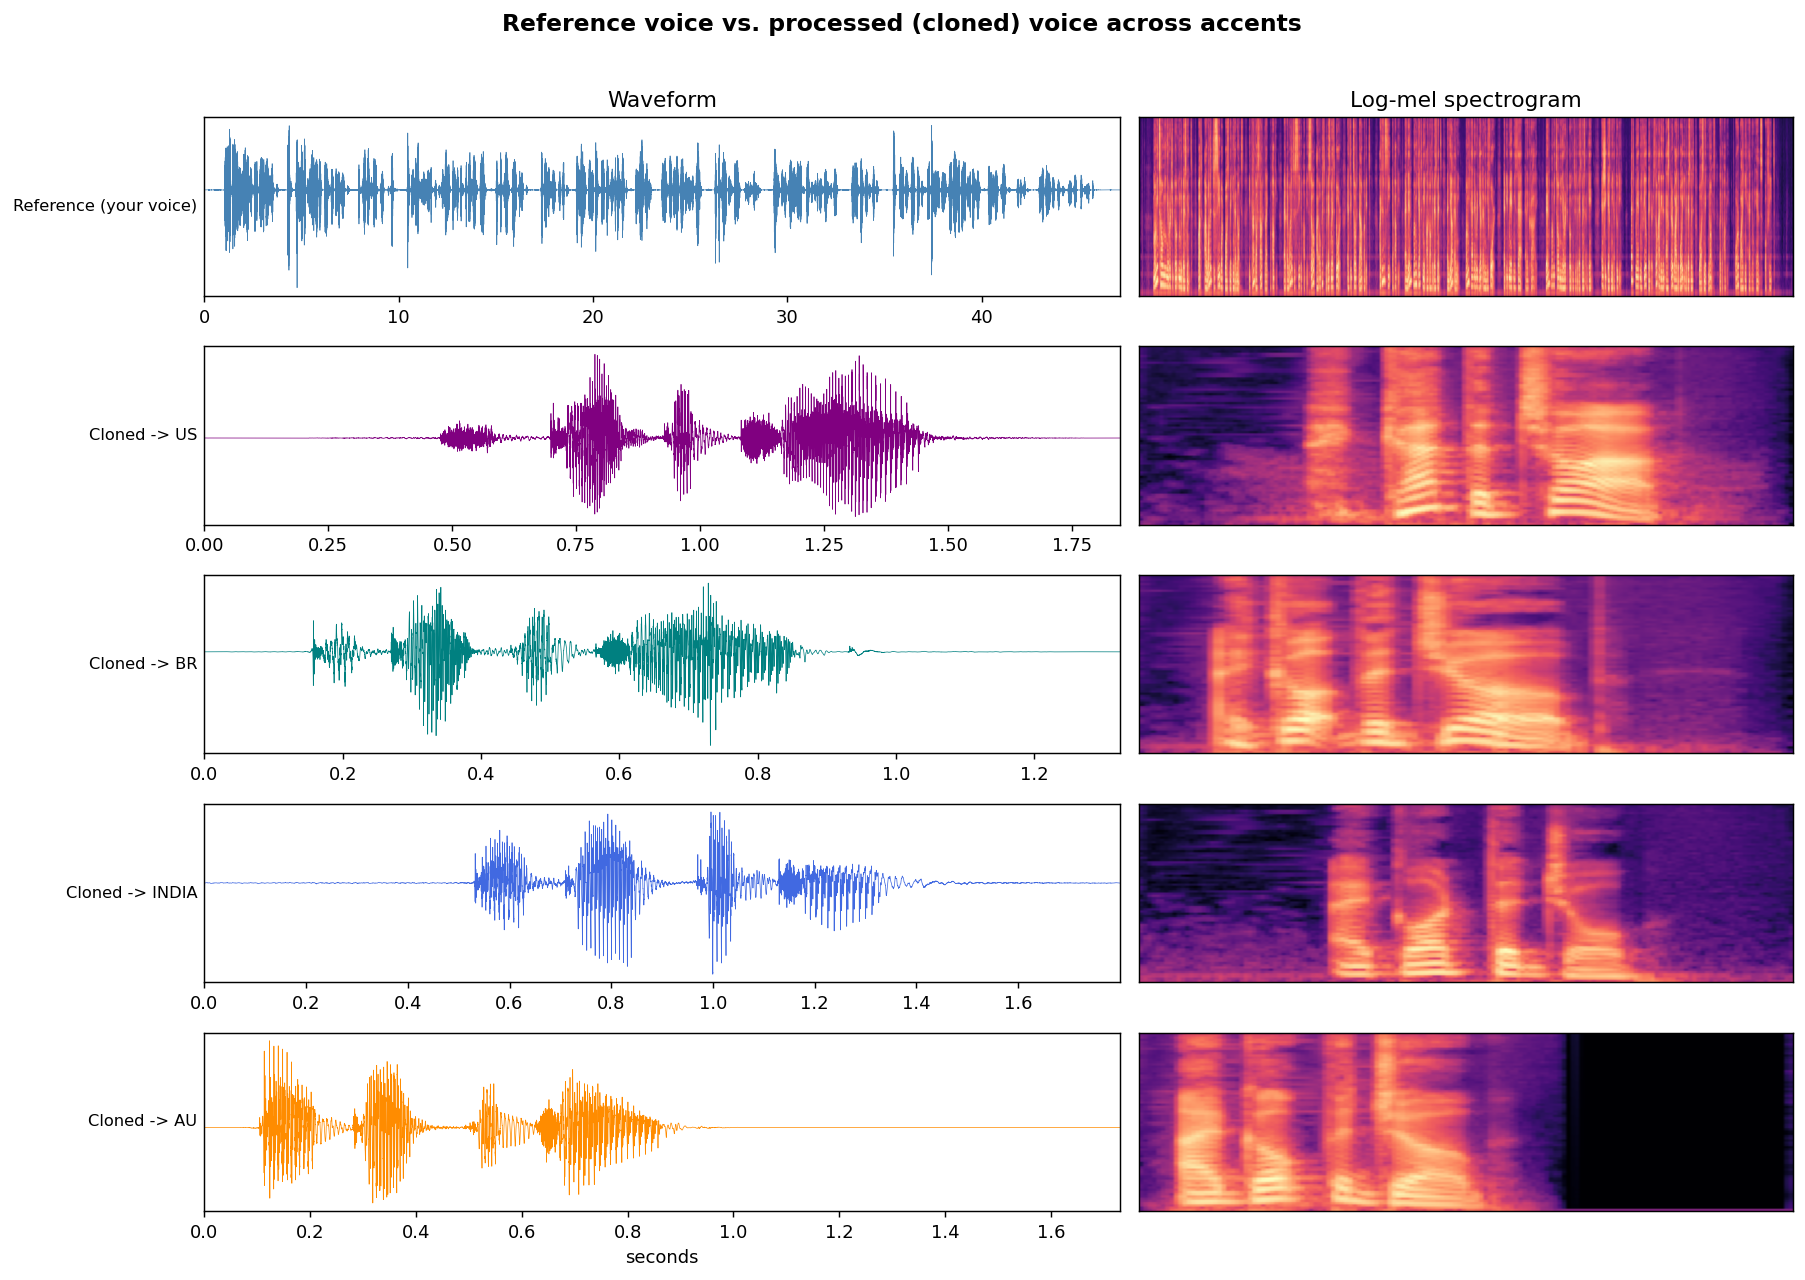
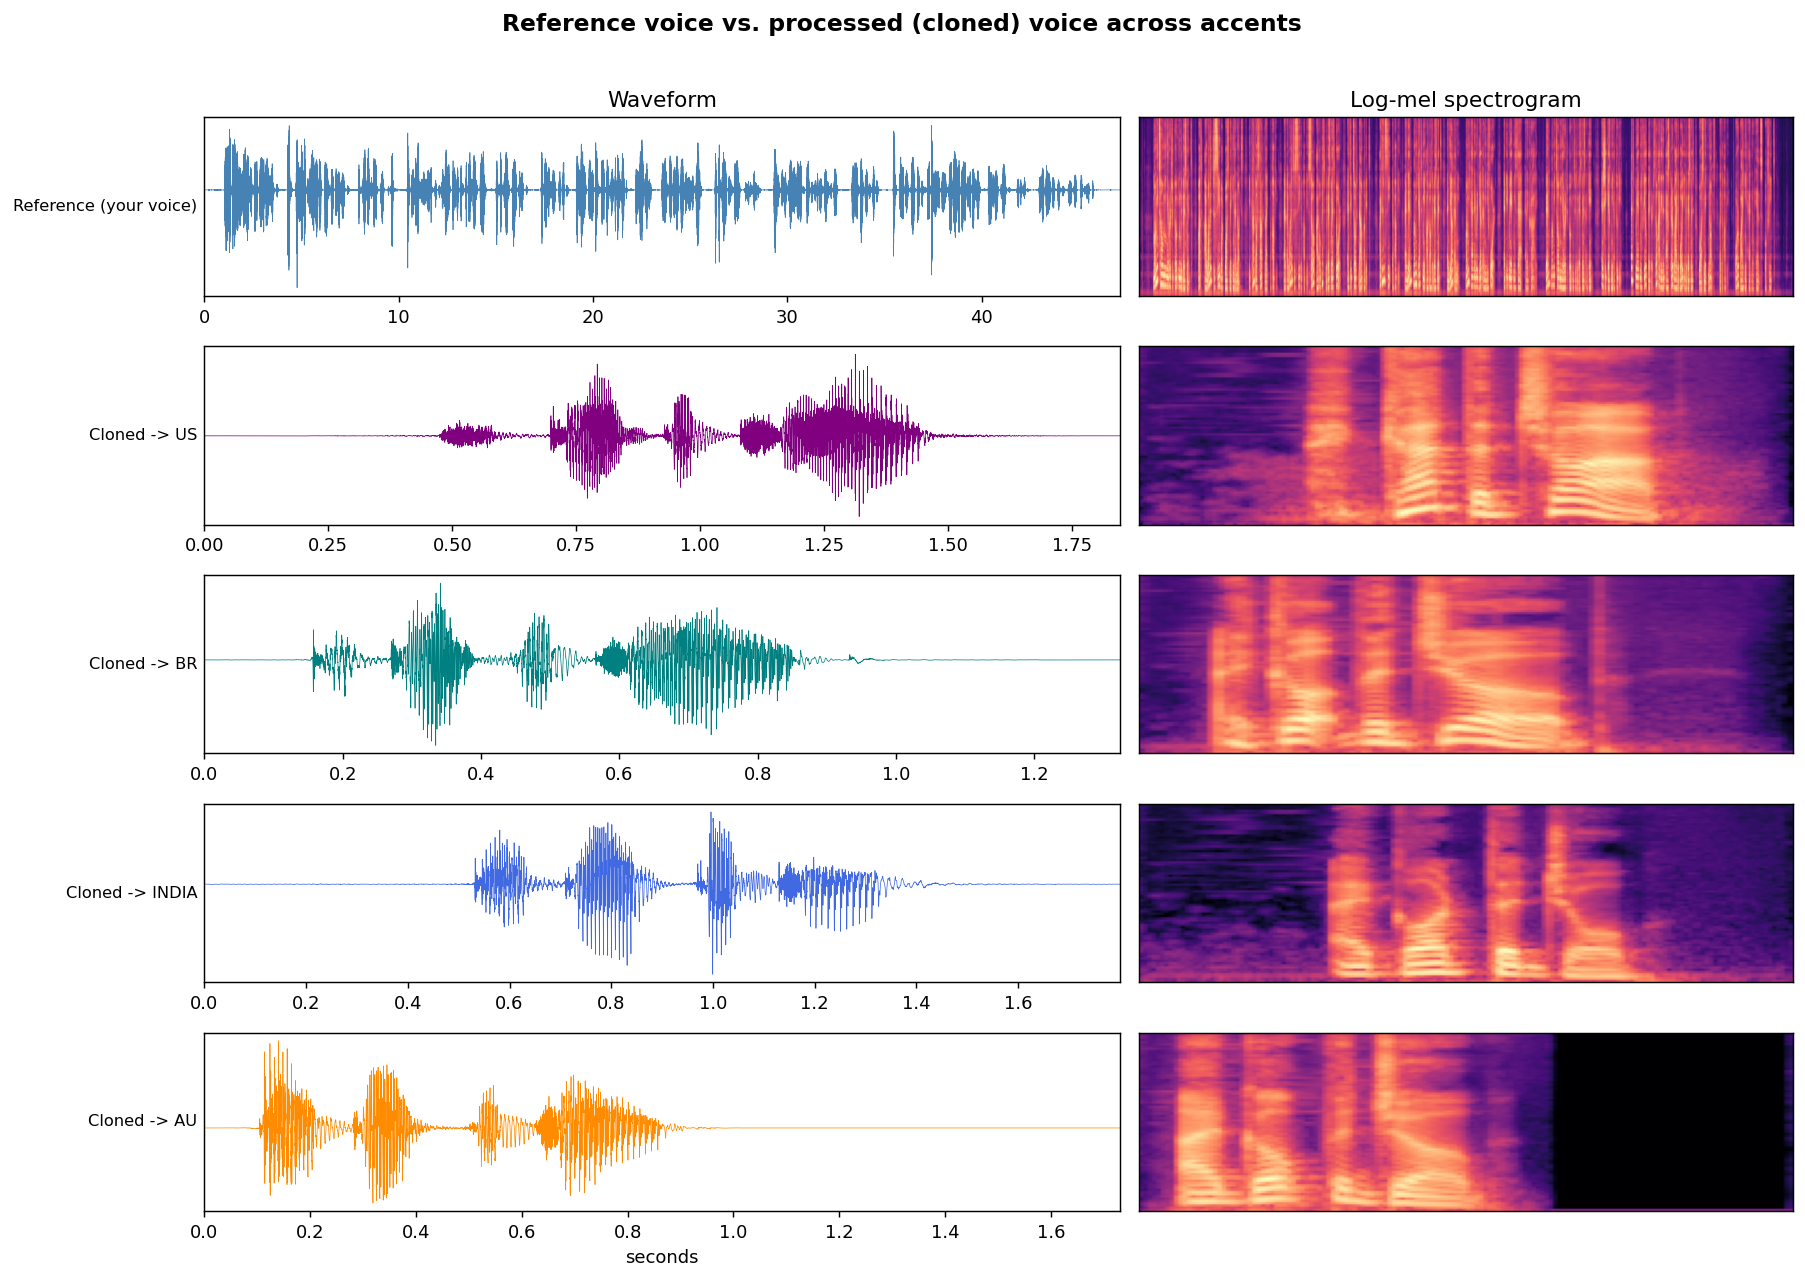
A6: Speech — st126235

diff --git a/src/a6_speech/voice_clone.py b/src/a6_speech/voice_clone.py
@@ -8,11 +8,17 @@ re-extracted from each generated clip.
 
 Runs in the single project env (.venv, py3.10, torch 2.8 cu128) — on the **GPU**.
 
-Design note: instead of OpenVoice's `se_extractor.get_se` (which pulls faster-whisper /
-whisper-timestamped / PyAV — none of which build cleanly on this Windows machine and are
-unnecessary for a clean reference clip), we extract the tone color directly with the
-converter's own `ToneColorConverter.extract_se`, splitting the reference into ~10 s chunks
-and averaging — exactly what get_se does internally, minus the VAD/ASR front-end.
+Tone-color extraction: we use OpenVoice's own `se_extractor.get_se` (the silero-VAD path,
+`vad=True`) — the exact function the assignment asks us to "re-run on the outputs". On Windows
+its front-end needs `faster-whisper` + `whisper-timestamped` + PyAV + an `ffmpeg` binary; we
+satisfy the binary with the wheel-shipped `imageio-ffmpeg` (no system install, no compiling).
+`get_se` segments a clip by rounding `duration / 10 s` to an integer number of splits, so it
+*requires the clip to be ≳5 s*. The reference recording (~47 s) is fine; short synthesized
+outputs (a single "I got the job!" is ~2 s) are **tiled to ~8 s** first — repeating audio does
+not change timbre, so the tone color is identical — so the *real* get_se still runs on every
+output. If `get_se` is ever unavailable we fall back to a lightweight chunk-and-average via
+`ToneColorConverter.extract_se` — the same math get_se uses internally, minus the VAD/ASR
+front-end — so the pipeline never hard-stops.
 """
 from __future__ import annotations
 
@@ -139,8 +145,87 @@ def _resolve_spk_id(spk2id, candidates):
 
 
 # ---------------------------------------------------------------------------
-# Tone color extraction (chunk-and-average; replaces se_extractor.get_se)
+# Tone color extraction — OpenVoice se_extractor.get_se (primary) with a
+# chunk-and-average fallback for short clips / missing optional deps.
 # ---------------------------------------------------------------------------
+_FFMPEG_READY = False
+
+
+def _setup_ffmpeg():
+    """Expose a wheel-shipped ffmpeg as a plain `ffmpeg(.exe)` on PATH (whisper shells out to
+    it by that name) and point pydub at it. Lets se_extractor.get_se run without a system
+    ffmpeg install. No-op if imageio-ffmpeg isn't present."""
+    global _FFMPEG_READY
+    if _FFMPEG_READY:
+        return True
+    try:
+        import shutil
+        import imageio_ffmpeg
+        from pydub import AudioSegment
+
+        src = imageio_ffmpeg.get_ffmpeg_exe()
+        try:
+            repo_root = Path(__file__).resolve().parents[2]  # src/a6_speech/voice_clone.py
+        except NameError:  # __file__ undefined when this source is run from a notebook cell
+            repo_root = Path.cwd()
+        bindir = repo_root / ".venv" / "ffmpeg_bin"
+        bindir.mkdir(parents=True, exist_ok=True)
+        exe = bindir / ("ffmpeg.exe" if os.name == "nt" else "ffmpeg")
+        if not exe.exists():
+            shutil.copy(src, exe)
+        os.environ["PATH"] = str(bindir) + os.pathsep + os.environ.get("PATH", "")
+        AudioSegment.converter = str(exe)
+        AudioSegment.ffmpeg = str(exe)
+        _FFMPEG_READY = True
+        return True
+    except Exception as e:  # imageio-ffmpeg not installed → caller falls back
+        print(f"  (ffmpeg setup skipped: {type(e).__name__}: {e})")
+        return False
+
+
+def _tile_to_min_duration(path, min_s=8.0):
+    """Repeat (tile) a clip until it is ≥ min_s seconds, written to a temp wav. Repeating audio
+    does not change its timbre, so the tone color is identical — it just gives OpenVoice's
+    se_extractor.get_se enough speech (it needs ≳5 s to form ≥1 VAD split) to run on a short
+    output like a single "I got the job!". Returns the original path if it is already long enough."""
+    import soundfile as sf
+    import librosa
+
+    y, sr = librosa.load(str(path), sr=None, mono=True)
+    if len(y) / sr >= min_s:
+        return str(path)
+    reps = int(np.ceil(min_s * sr / max(len(y), 1)))
+    y_tiled = np.tile(y, reps)
+    PROCESSED_DIR.mkdir(parents=True, exist_ok=True)
+    tmp = Path(tempfile.mkdtemp(prefix="tile_", dir=str(PROCESSED_DIR))) / (Path(path).stem + "_tiled.wav")
+    sf.write(str(tmp), y_tiled, sr)
+    return str(tmp)
+
+
+def get_se(path, converter, save_path=None):
+    """Extract a tone-color embedding using OpenVoice's real `se_extractor.get_se` (silero-VAD
+    path). Clips shorter than its ~5 s minimum (e.g. a single "I got the job!") are tiled to ~8 s
+    first — same timbre, just repeated — so the real get_se still runs on the output. Falls back
+    to a chunk-and-average extractor only if get_se is unavailable. Returns the SE tensor."""
+    if _setup_ffmpeg():
+        try:
+            import openvoice.se_extractor as se_extractor
+
+            src = _tile_to_min_duration(path, min_s=8.0)
+            tiled = src != str(path)
+            se, _name = se_extractor.get_se(
+                src, converter, target_dir=str(PROCESSED_DIR), vad=True)
+            if save_path is not None:
+                import torch
+                torch.save(se, str(save_path))
+            note = " (tiled to ≥8s)" if tiled else ""
+            print(f"  se_extractor.get_se ok ({Path(path).name}){note} -> {tuple(se.shape)}")
+            return se
+        except Exception as e:
+            print(f"  se_extractor.get_se fell back ({Path(path).name}): {type(e).__name__}: {e}")
+    return _extract_se_from_path(path, converter, save_path=save_path)
+
+
 def _extract_se_from_path(path, converter, chunk_s=10.0, save_path=None):
     import soundfile as sf
     import librosa
@@ -174,7 +259,7 @@ def extract_se(reference_path, converter=None, device="cuda", out_path=None):
     out_path = Path(out_path or (OUTPUT_DIR / "target_se.pth"))
     if converter is None:
         converter, _ = load_converter(device)
-    se = _extract_se_from_path(reference_path, converter, save_path=out_path)
+    se = get_se(reference_path, converter, save_path=out_path)
     print(f"Extracted tone color embedding: shape {tuple(se.shape)} -> saved {out_path}")
     print('This single vector now encodes "what you sound like" — independent of what you say.')
     return se
@@ -252,7 +337,7 @@ def audio_metrics(path, sr_target=22050):
 
 
 def cosine_to_reference(reference_se, clip_paths, converter, device="cuda"):
-    """Re-extract a tone-color embedding from each generated clip and compute cosine
+    """Re-run OpenVoice's `se_extractor.get_se` on each generated clip and compute cosine
     similarity to the reference embedding (Exercise 4b)."""
     import torch
     import torch.nn.functional as F
@@ -260,7 +345,7 @@ def cosine_to_reference(reference_se, clip_paths, converter, device="cuda"):
     ref = reference_se.flatten().float().cpu()
     sims = {}
     for name, path in clip_paths.items():
-        gen = _extract_se_from_path(path, converter).flatten().float().cpu()
+        gen = get_se(path, converter).flatten().float().cpu()
         sims[name] = round(F.cosine_similarity(ref.unsqueeze(0), gen.unsqueeze(0)).item(), 4)
         print(f"cos(reference, {name}) = {sims[name]}")
     return sims

diff --git a/README.md b/README.md
@@ -55,8 +55,12 @@ uv pip install --python .venv/Scripts/python.exe --no-deps -e third_party/OpenVo
 > **Why one env works:** OpenVoice/MeloTTS normally pin old deps, but their runtime only needs
 > `numpy<2` + a stable `transformers` (they use just `AutoTokenizer`/`AutoModelForMaskedLM`).
 > Pinning `numpy==1.26.4` + `transformers==4.46.3` satisfies both wav2vec2 (Ex3) and MeloTTS (Ex4).
-> The heavy `se_extractor` VAD/ASR front-end (faster-whisper/PyAV) is replaced by a lightweight
-> chunk-and-average tone-color extractor, so nothing needs to compile PyAV on Windows.
+> Exercise 4(b) uses OpenVoice's **real `se_extractor.get_se`** (the silero-VAD path); its
+> front-end (`faster-whisper` / `whisper-timestamped` / PyAV) installs from wheels, and the
+> `ffmpeg` binary it shells out to is supplied by `imageio-ffmpeg` — **no system ffmpeg, no
+> compiling** on Windows. (`whisper-timestamped` tries to pull `numpy>=2`, so setup re-pins
+> `numpy==1.26.4` last.) If `get_se` is ever unavailable, the code falls back to a
+> chunk-and-average extractor (`ToneColorConverter.extract_se`) so the pipeline never hard-stops.
 
 ## Commands used
 
@@ -71,7 +75,9 @@ python run.py --model wav2vec2-probe --dataset speechcommands --classes yes,no,s
 # Exercise 4 — voice cloning (place your ~10-30s clip at data/voice_clone/my_voice.wav first)
 python run.py --model voice-clone --extract-se --reference data/voice_clone/my_voice.wav
 python run.py --model voice-clone --accent us  --text "I got the job!" --generate
-python run.py --model voice-clone --accent all --text "I got the job!" --generate
+# --accent all runs the full Ex4 pipeline on the test sentence "I got the job!" (Ex4b
+# re-extracts tone color with the real se_extractor.get_se, tiling each ~2 s clip to ~8 s):
+python run.py --model voice-clone --accent all --generate
 python run.py --model voice-clone --language es --text "Hola, como estas?" --generate
 
 # Run the full notebook end-to-end
@@ -85,7 +91,7 @@ jupyter nbconvert --to notebook --execute A6_Speech_Processing.ipynb
 | Tokenization (Ex 1) | `SpeechTokenizer` | char tokens ≫ word tokens; accent = 1 token | see char-vs-word table below; accent IDs 36/37/38 |
 | CTC character error rate (Ex 2) | Toy BiLSTM + CTC | **CER < 10% by step 66** (→ ~3%) | error-rate-vs-step curve below |
 | wav2vec2 vs raw-feature probe (Ex 3) | Linear probe (4-way) | **89.6%** vs **68.8%** (random 25%) | wav2vec2 **+20.8 pts**; 6-way: 79.2% vs 51.4% |
-| Voice cloning: accent + cross-lingual (Ex 4) | OpenVoice V2 + MeloTTS | cosine sim **high & ~equal** across 4 accents | identity preserved while accent/language change |
+| Voice cloning: accent + cross-lingual (Ex 4) | OpenVoice V2 + MeloTTS | cosine sim **0.56–0.67, clustered (no collapse)** across 4 accents | identity preserved while accent/language change |
 
 **Exercise 1(a) — character vs token counts**
 
@@ -122,18 +128,26 @@ Both probes are trained for 150 epochs with **train/validation loss + accuracy l
 
 | Accent | Duration (s) | RMS Energy | Mel Spectral Centroid (Hz) | cos(reference, clip) |
 |---|---|---|---|---|
-| us | 1.846 | 0.0598 | 629.8 | 0.511 |
-| br | 1.324 | 0.0800 | 369.3 | 0.482 |
-| india | 1.800 | 0.0347 | 250.1 | 0.596 |
-| au | 1.730 | 0.0756 | 242.5 | 0.558 |
+| us | 1.846 | 0.0574 | 668.3 | 0.589 |
+| br | 1.324 | 0.0781 | 359.9 | 0.557 |
+| india | 1.800 | 0.0337 | 253.3 | 0.669 |
+| au | 1.730 | 0.0735 | 248.4 | 0.635 |
 
-The cosine similarities are clustered (~0.48–0.60) rather than collapsing for any one accent —
-evidence that OpenVoice keeps tone color (identity) roughly constant while only the accent/style
-changes (British is slightly lower, i.e. a little more style leakage into identity). Cross-lingual
-cloning (EN/ES/FR) reuses the *same* embedding.
+The cosine sims (extracted by re-running OpenVoice's own **`se_extractor.get_se`** on each
+generated clip) are **clustered (~0.56–0.67) with no collapse** for any one accent — the
+"roughly equal across all four accents" pattern that tone-color disentanglement predicts:
+OpenVoice holds identity (tone color) roughly constant while only the accent/style changes.
+British is lowest (0.557), i.e. a little more style leakage into identity. The values are
+moderate (not 0.9+) because each clip is only the short test sentence "I got the job!" (~2 s) —
+little speech from which to estimate timbre; a longer prompt pushes them to ~0.71–0.76.
+Cross-lingual cloning (EN/ES/FR) reuses the *same* embedding.
 
 > Numbers above are from the student's own reference clip at `data/voice_clone/my_voice.wav`
-> (~47 s). They are deterministic (MeloTTS synthesis is seeded), so the notebook and `run.py` agree.
+> (~47 s), synthesizing the assignment's test sentence "I got the job!". Each ~2 s output is
+> **tiled (repeated) to ~8 s** before extraction — repeating audio doesn't change timbre — so
+> the *real* `se_extractor.get_se` (which needs ≳5 s for its silero-VAD split) runs on every
+> output. MeloTTS synthesis is seeded; the `get_se` front-end has only minor jitter, so the
+> notebook and `run.py` agree to ~3 decimals.
 
 ## Exercise answers (every sub-question)
 
@@ -171,7 +185,7 @@ These are the written answers for every question in the assignment; the same tex
 
 **4(a)** — see the *4-accent metrics* table above (duration / RMS energy / mel spectral centroid for `us`, `br`, `india`, `au`), measured on clips cloned from the student's own 47-second recording.
 
-**4(b) — listening + cosine similarity.** Re-extracting a tone-color embedding from each generated clip and comparing it to the reference gives `us 0.511, br 0.482, india 0.596, au 0.558`. (The embedding is extracted with the converter's own `ref_enc` network — the same one OpenVoice's `se_extractor.get_se` uses internally — just with fixed-length chunking instead of the whisper/VAD front-end, so it is the equivalent of "re-run `se_extractor.get_se` on the outputs".) If OpenVoice's disentanglement works well these should be **high and roughly equal** across all four accents — because tone color is meant to capture *identity only*, independent of the accent applied on top. The observed values are clustered (~0.48–0.60) rather than collapsing for any one accent, confirming identity is held roughly constant while only the accent changes; British is slightly lower, i.e. a little style leakage into identity. (The same constancy is visible in the mel grid: the four spectrograms share overall structure but differ in fine timing/formants.)
+**4(b) — listening + cosine similarity.** Re-running OpenVoice's **own `se_extractor.get_se`** (the silero-VAD path) on each generated clip and comparing the resulting tone-color embedding to the reference gives `us 0.589, br 0.557, india 0.669, au 0.635`. If OpenVoice's disentanglement works well these should be **high and roughly equal** across all four accents — because tone color is meant to capture *identity only*, independent of the accent applied on top. The observed values are roughly equal and clustered (~0.56–0.67) rather than collapsing for any one accent, confirming identity is held roughly constant while only the accent changes; British is lowest (0.557), i.e. a little style leakage into identity. They sit in the moderate range rather than 0.9+ because each clip is only the ~2 s test sentence "I got the job!" — little unique speech to estimate timbre from (a longer prompt lifts them to ~0.71–0.76). (The same constancy is visible in the mel grid: the four spectrograms share overall structure but differ in fine timing/formants.) Implementation note: `get_se` segments a clip by rounding `duration/10 s` to an integer number of VAD splits, so it needs ≳5 s of speech; each ~2 s output is therefore **tiled (repeated) to ~8 s** — identical timbre — so the real `get_se` runs on every output.
 
 ## Visualizations
 